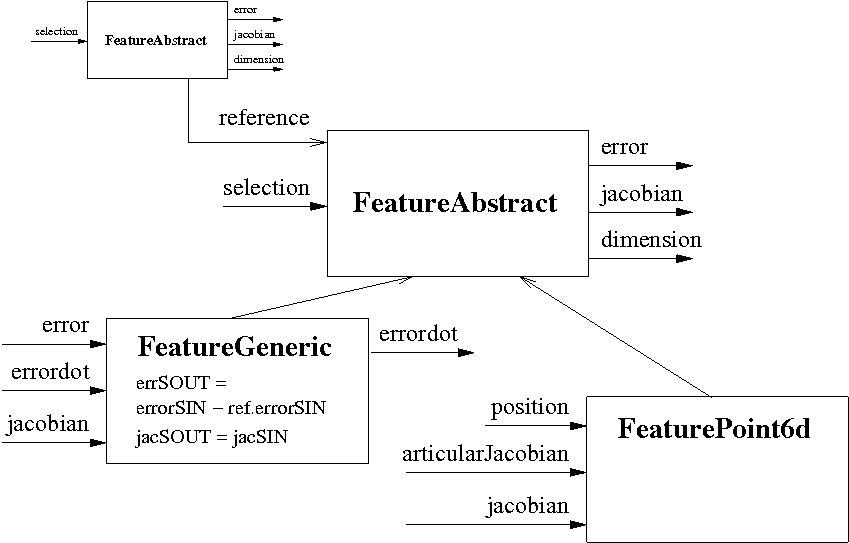
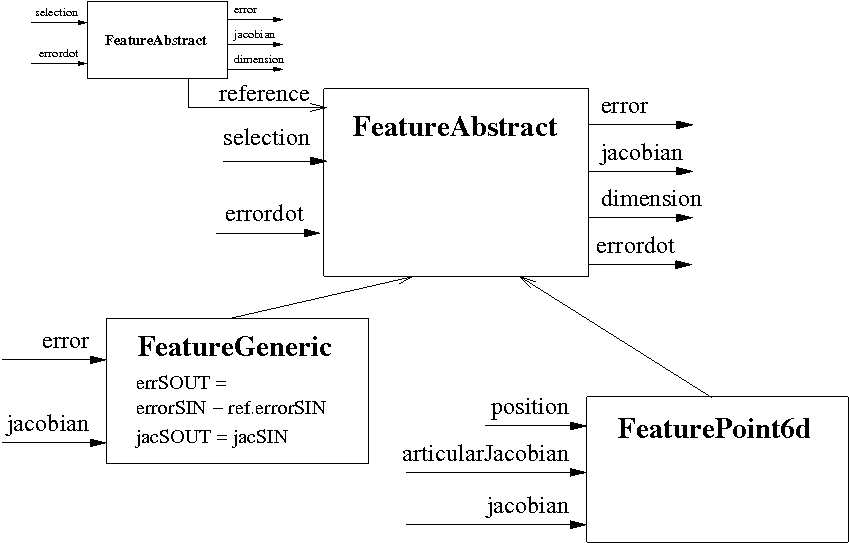
Move signals errordotSIN and errordotSOUT up to class FeatureAbstract.
errordotSOUT callback computeErrorDot copies components of input signal
  errordotSIN of reference feature defined by selectionSIN flag to output
  signal errordotSOUT. This was previously performed by FeatureGeneric.

  Remove calls to withErrorDot, result is always true.

diff --git a/src/feature/feature-abstract.cpp b/src/feature/feature-abstract.cpp
@@ -20,10 +20,12 @@
 
 #include <sot/core/feature-abstract.hh>
 #include <sot/core/pool.hh>
+#include "sot/core/debug.hh"
+#include "sot/core/exception-feature.hh"
 #include <dynamic-graph/all-commands.h>
 
 using namespace dynamicgraph::sot;
-namespace dg = dynamicgraph;
+using dynamicgraph::sot::ExceptionFeature;
 
 const std::string 
 FeatureAbstract::CLASS_NAME = "FeatureAbstract";
@@ -33,6 +35,7 @@ FeatureAbstract::
 FeatureAbstract( const std::string& name ) 
   :Entity(name)
    ,selectionSIN(NULL,"sotFeatureAbstract("+name+")::input(flag)::selec")
+  ,errordotSIN (NULL,"sotFeatureAbstract("+name+")::input(vector)::errordotIN" )
    ,errorSOUT( boost::bind(&FeatureAbstract::computeError,this,_1,_2),
 	       selectionSIN,
 	       "sotFeatureAbstract("+name+")::output(vector)::error" )
@@ -42,6 +45,9 @@ FeatureAbstract( const std::string& name )
    ,dimensionSOUT( boost::bind(&FeatureAbstract::getDimension,this,_1,_2),
 		   selectionSIN,
 		   "sotFeatureAbstract("+name+")::output(uint)::dim" )
+  ,errordotSOUT (boost::bind(&FeatureAbstract::computeErrorDot,this,_1,_2),
+		 selectionSIN << errordotSIN,
+		 "sotFeatureAbstract("+name+")::output(vector)::errordot" )
 {
   selectionSIN = true;
   signalRegistration( selectionSIN
@@ -96,4 +102,36 @@ std::string FeatureAbstract::
 getReferenceByName() const
 {
   if( isReferenceSet() ) return getReferenceAbstract()->getName(); else return "none";
+}
+
+ml::Vector& FeatureAbstract::
+computeErrorDot( ml::Vector& res,int time )
+{ 
+  const Flags &fl = selectionSIN.access(time);
+  const unsigned int & dim = dimensionSOUT(time);
+
+  unsigned int curr = 0;
+  res.resize( dim );
+
+  sotDEBUG(25) << "Dim = " << dim << std::endl;
+
+  if( isReferenceSet () && getReferenceAbstract ()->errordotSIN.isPluged ())
+    {
+      const ml::Vector& errdotDes = getReferenceAbstract ()->errordotSIN(time);
+      sotDEBUG(15) << "Err* = " << errdotDes;
+      if( errdotDes.size()<dim )
+	{ SOT_THROW ExceptionFeature( ExceptionFeature::UNCOMPATIBLE_SIZE,
+					 "Error: dimension uncompatible with des->errorIN size."
+					 " (while considering feature <%s>).",getName().c_str() ); }
+
+      for( unsigned int i=0;i<errdotDes.size();++i ) if( fl(i) ) 
+	if( fl(i) ) res( curr++ ) = errdotDes(i);
+    }
+  else
+    {
+      for( unsigned int i=0;i<dim;++i )
+	if( fl(i) ) res( curr++ ) = 0.0;
+    }
+  
+  return res; 
 }

diff --git a/src/feature/feature-generic.cpp b/src/feature/feature-generic.cpp
@@ -44,11 +44,7 @@ FeatureGeneric( const string& pointName )
   : FeatureAbstract( pointName )
     ,dimensionDefault(0)
     ,errorSIN( NULL,"sotFeatureGeneric("+name+")::input(vector)::errorIN" )
-    ,errordotSIN( NULL,"sotFeatureGeneric("+name+")::input(vector)::errordotIN" )
     ,jacobianSIN( NULL,"sotFeatureGeneric("+name+")::input(matrix)::jacobianIN" )
-    ,errordotSOUT(  boost::bind(&FeatureGeneric::computeErrorDot,this,_1,_2),
-		    selectionSIN << errordotSIN,
-		    "sotFeatureAbstract("+name+")::output(vector)::errordot" )
 
 {
   jacobianSOUT.addDependency( jacobianSIN );
@@ -134,39 +130,6 @@ computeError( ml::Vector& res,int time )
   return res; 
 
 }
-
-ml::Vector& FeatureGeneric::
-computeErrorDot( ml::Vector& res,int time )
-{ 
-  const Flags &fl = selectionSIN.access(time);
-  const unsigned int & dim = dimensionSOUT(time);
-
-  unsigned int curr = 0;
-  res.resize( dim );
-
-  sotDEBUG(25) << "Dim = " << dim << endl;
-
-  if( isReferenceSet() && getReference()->errordotSIN.isPluged())
-    {
-      const ml::Vector& errdotDes = getReference()->errordotSIN(time);
-      sotDEBUG(15) << "Err* = " << errdotDes;
-      if( errdotDes.size()<dim )
-	{ SOT_THROW ExceptionFeature( ExceptionFeature::UNCOMPATIBLE_SIZE,
-					 "Error: dimension uncompatible with des->errorIN size."
-					 " (while considering feature <%s>).",getName().c_str() ); }
-
-      for( unsigned int i=0;i<errdotDes.size();++i ) if( fl(i) ) 
-	if( fl(i) ) res( curr++ ) = errdotDes(i);
-    }
-  else
-    {
-      for( unsigned int i=0;i<dim;++i )
-	if( fl(i) ) res( curr++ ) = 0.0;
-    }
-  
-  return res; 
-}
-
 
 ml::Matrix& FeatureGeneric::
 computeJacobian( ml::Matrix& res,int time )

diff --git a/src/task/task.cpp b/src/task/task.cpp
@@ -110,8 +110,7 @@ addFeature( FeatureAbstract& s )
   featureList.push_back(&s);
   jacobianSOUT.addDependency( s.jacobianSOUT );
   errorSOUT.addDependency( s.errorSOUT );
-  if( s.withErrorDot() )
-    { errorTimeDerivativeSOUT.addDependency( s.getErrorDot() ); }
+  errorTimeDerivativeSOUT.addDependency (s.getErrorDot());
 }
 
 void Task::
@@ -132,8 +131,7 @@ clearFeatureList( void )
       FeatureAbstract & s = **iter;
       jacobianSOUT.removeDependency( s.jacobianSOUT );
       errorSOUT.removeDependency( s.errorSOUT );
-      if( s.withErrorDot() )
-	{ errorTimeDerivativeSOUT.removeDependency( s.getErrorDot() ); }
+      errorTimeDerivativeSOUT.removeDependency (s.getErrorDot());
     }
 
   featureList.clear();
@@ -237,17 +235,9 @@ computeErrorTimeDerivative( ml::Vector & res, int time)
       {
 	FeatureAbstract &feature = **iter;
 
-	if( feature.withErrorDot() )
-	  {
-	    const ml::Vector& partialErrorDot = feature.getErrorDot()(time);
-	    const int dim = partialErrorDot.size();
-	    for( int k=0;k<dim;++k ){ res(cursor++) = partialErrorDot(k); }
-	  }
-	else
-	  {
-	    const int dim = feature.errorSOUT(time).size();
-	    for( int k=0;k<dim;++k ){ res(cursor++) = 0; }
-	  }
+	const ml::Vector& partialErrorDot = feature.getErrorDot()(time);
+	const int dim = partialErrorDot.size();
+	for( int k=0;k<dim;++k ){ res(cursor++) = partialErrorDot(k); }
       }
 
   return res;
